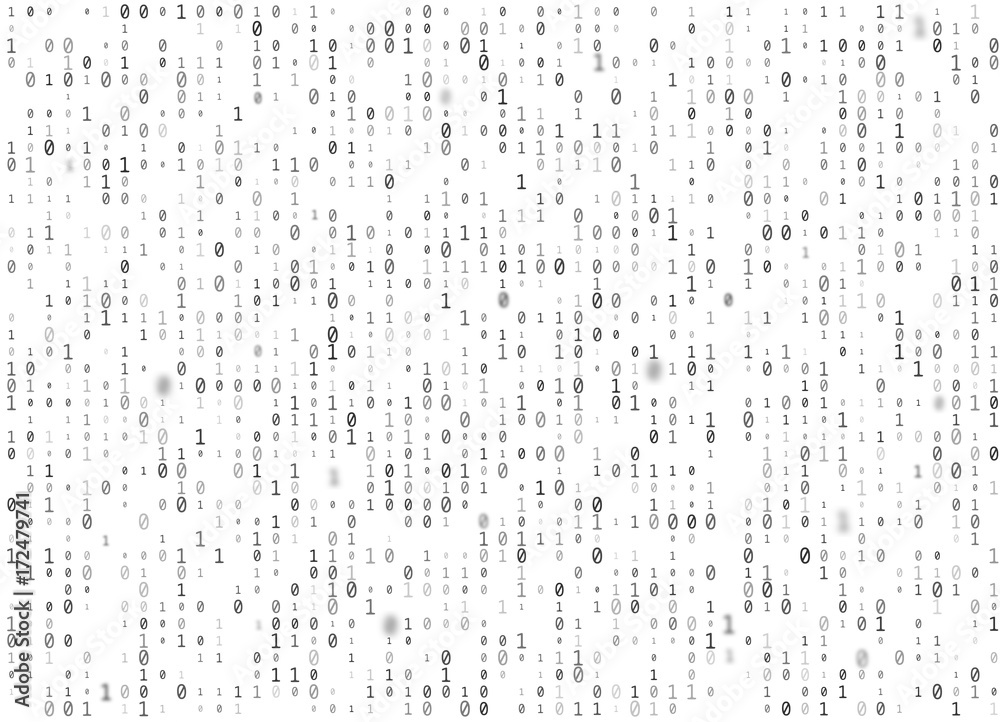
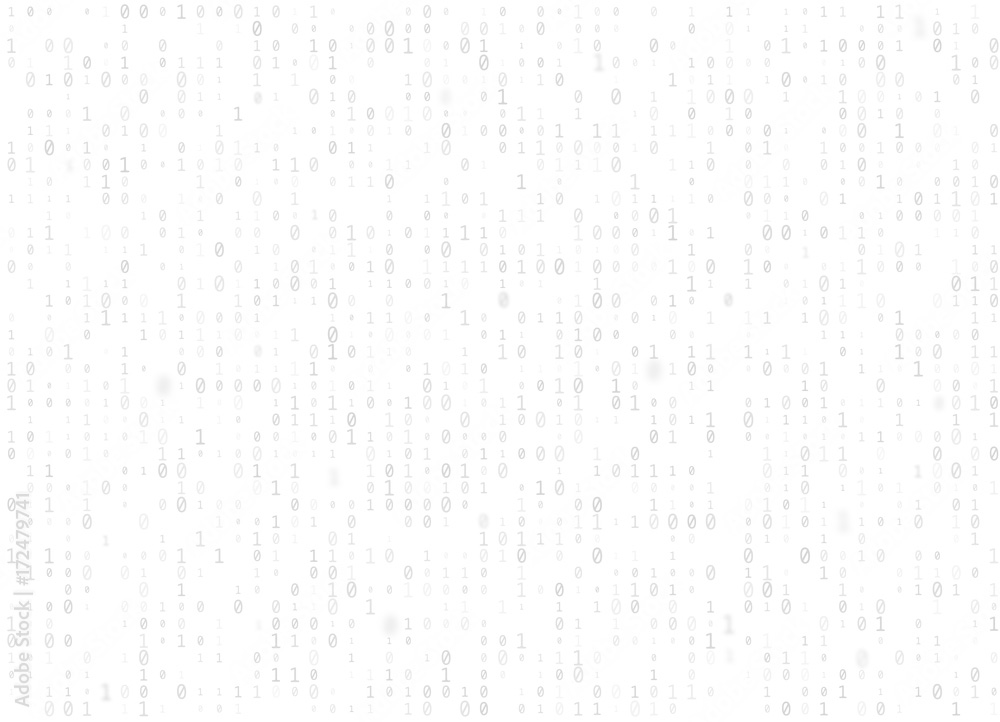
Add files via upload

diff --git a/buy.html b/buy.html
@@ -5,12 +5,20 @@
     <meta name="viewport" content="width=device-width, initial-scale=1.0">
     <title>buy hacher</title>
     <link rel="stylesheet" href="css/style.css">
+
+    <style>
+        body{
+            background-image: url("becraund.jpg");
+            background-repeat: unset;
+        }
+    </style>
+
+
+
 </head>
 <body>
 
-    <div class="contind">
-
-        <img src="becraund.jpg" alt="becraund" style="height: 100%; width: 100%; opacity: 20%;">
+    <div>
 
         <div class="textbuy">
 
@@ -33,7 +41,6 @@
             <h2>-vand conturi hacuite de influenkari sa fie ale tale</h2>
             <h2>-fac virusi special pt tine (lenesule)</h2>
             <h2>-iti dau laicuri si inimioare sa creada lumea ca esti influenkar</h2>
-            <h2>-iti dau nota sau media anuala 10 pe orice catalog electronic (esti un nauc)</h2>
 
             <h1>
                 <a href="customers.html" class="butind">Our Customers</a>

diff --git a/customers.html b/customers.html
@@ -5,11 +5,20 @@
     <meta name="viewport" content="width=device-width, initial-scale=1.0">
     <title>Our Customers</title>
     <link rel="stylesheet" href="css/style.css">
+
+    <style>
+        body{
+            background-image: url("becraund.jpg");
+            background-repeat: unset;
+        }
+    </style>
+
+
+    
 </head>
 <body>
     
-    <div class="contind">
-        <img src="becraund.jpg" alt="becraund" style="height: 100%; width: 100%; opacity: 20%;">
+    <div>
 
         <div class="textcus">
 

diff --git a/index.html b/index.html
@@ -6,12 +6,18 @@
     <title>darc ueb</title>
     <link rel="stylesheet" href="css/style.css">
 
+    <style>
+        body{
+            background-image: url("becraund.jpg");
+            background-repeat: unset;
+        }
+    </style>
+
 
 </head>
 <body>
 
-    <div class="contind">
-        <img src="becraund.jpg" alt="becraund" style="height: 100%; width: 100%; opacity: 20%;" >
+    <div>
 
         <div class="text">
             <h1>Helo uarld</h1>

diff --git a/css/style.css b/css/style.css
@@ -1,7 +1,3 @@
-.contind{
-    position: relative;
-}
-
 .text{
     position: absolute;
     align-items: center;
@@ -34,3 +30,4 @@
     top: 5px;
     left: 40%;
 }   
+
